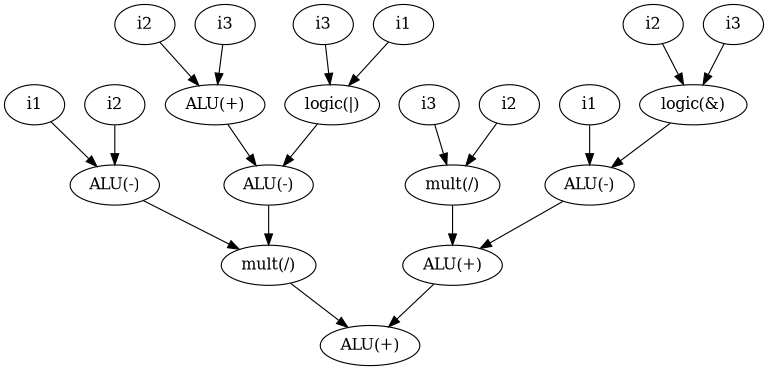
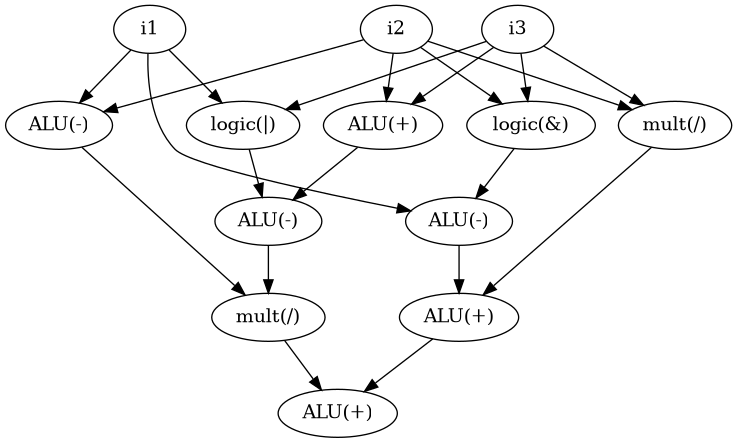
update DFG visualizer

diff --git a/main.py b/main.py
@@ -16,25 +16,36 @@ def load_input(filename: str) -> dict:
 def build_dfg(expression: str, folder_path : str):
     ast_root = expression_to_graph(expression)
 
-    dot = visualize_graph(ast_root)
-    dot.attr(label="", labelloc='t', fontsize='17')  
-    dot.render(folder_path + "/pics/DFG-V2", format='png', view=False, cleanup=True)
+    dotv1 = visualize_graph(ast_root,version = 1)
+    dotv1.attr(label="", labelloc='t', fontsize='17')  
+    dotv1.render(folder_path + "/pics/DFG-V1", format='png', view=False, cleanup=True)
+
+    dotv2 = visualize_graph(ast_root,version = 2)
+    dotv2.attr(label="", labelloc='t', fontsize='17')  
+    dotv2.render(folder_path + "/pics/DFG-V2", format='png', view=False, cleanup=True)
 
     builder = GraphBuilder()
     return builder.build(ast_root)
 
 
 def schedule_dfg(dfg_root, algorithm : str, config : dict, folder_path : str) -> list:
+    
     if (algorithm == MinResourceAlgorithm):
         scheduler = MinResourceScheduler(dfg_root=dfg_root, numof_resources=config["Resources"], max_time=config["MaxTime"])
+    
     else:
         scheduler = MinLatencyScheduler(dfg_root=dfg_root, numof_resources=config["Resources"])    
+    
     scheduler.schedule()
     schedule_info = scheduler.get_scheduling_info()
 
-    dot = visualize_scheduled_graph(root_id=dfg_root.id, schedule_info=schedule_info)
-    dot.attr(label="", labelloc='t', fontsize='17')  
-    dot.render(folder_path + "/pics/ScheduledDFG", format='png', view=False, cleanup=True)
+    dotv1 = visualize_scheduled_graph(root_id=dfg_root.id, schedule_info=schedule_info, version = 1)
+    dotv1.attr(label="", labelloc='t', fontsize='17')  
+    dotv1.render(folder_path + "/pics/ScheduledDFG-V1", format='png', view=False, cleanup=True)
+    
+    dotv2 = visualize_scheduled_graph(root_id=dfg_root.id, schedule_info=schedule_info, version = 2)
+    dotv2.attr(label="", labelloc='t', fontsize='17')  
+    dotv2.render(folder_path + "/pics/ScheduledDFG-V2", format='png', view=False, cleanup=True)
 
     return schedule_info
 

diff --git a/src/graph_visualizer.py b/src/graph_visualizer.py
@@ -43,7 +43,7 @@ def determine_operation_type(op) -> str:
         return f"?({sym})"
 
 
-def visualize_graph(root):
+def visualize_graph(root, version = 1):
     dot = graphviz.Digraph(comment='Abstract Syntax Tree')
     dot.attr(rankdir='TB', size='8,8')
 
@@ -60,14 +60,17 @@ def visualize_graph(root):
             label = f"{determine_operation_type(node.op)}"
             add_node_and_edges(node.left, cur_node_id)
             add_node_and_edges(node.right, cur_node_id)
+        
         elif isinstance(node, ast.Name):
             label = f"{node.id}"
+        
         elif isinstance(node, ast.Constant):
-            label = f"{node.value}"
+            label = f"c={node.value}"
+        
         else:
             label = type(node).__name__
 
-        if label.startswith("id"):
+        if version == 2 and not label.startswith("c=") and not label.startswith("ALU") and not label.startswith("mult") and not label.startswith("shift") and not label.startswith("logic") and not label.startswith("unary") and not label.startswith("cmp"):
             if label in visited_identifiers.keys():
                 cur_node_id = visited_identifiers[label]
             else:
@@ -82,7 +85,7 @@ def visualize_graph(root):
     add_node_and_edges(root)
     return dot
 
-def visualize_scheduled_graph(root_id, schedule_info : List[ScheduledNodeInfo]):
+def visualize_scheduled_graph(root_id, schedule_info : List[ScheduledNodeInfo], version = 1):
     
     def find_node_by_id(id) -> ScheduledNodeInfo:
         for sched_node in schedule_info:

diff --git a/src/scheduler.py b/src/scheduler.py
@@ -87,7 +87,9 @@ class MinLatencyScheduler(ListScheduler):
 
     
 class MinResourceScheduler(ListScheduler):
+    
     def __init__(self, dfg_root : BaseNode, numof_resources : dict, max_time : int):
+        
         super().__init__(dfg_root=dfg_root, numof_reources=numof_resources)
         self.max_time = max_time
         self.latest_time = self.find_latest_times()
